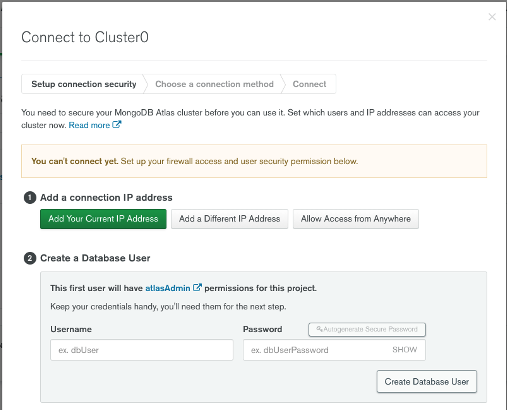
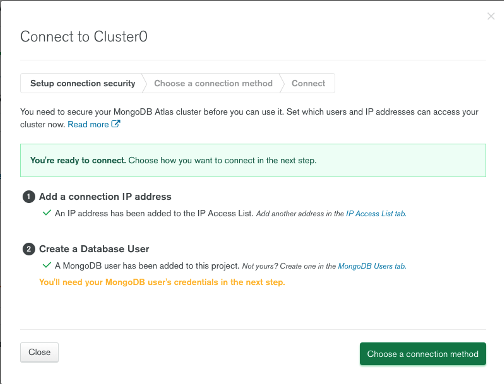
finalizing readme

diff --git a/README.md b/README.md
@@ -4,6 +4,8 @@
 
 <a href="https://choosealicense.com/licenses/mit" target="_blank"><img src="https://img.shields.io/badge/License-MIT-yellow.svg" /></a>
 
+<hr/>
+
 ## Description
 
 Turbo Doodle is a full-stack budget tracker that was developed as a progressive web app (PWA).
@@ -18,6 +20,8 @@ Given the above definition, the main feature of this app is to provide the user 
 
 To view the final app deployed on Heroku, please click on the following [link](https://secret-sierra-86296.herokuapp.com/).
 
+<hr/>
+
 ## Table of Contents:
 
 1. [Description](#description)
@@ -28,6 +32,8 @@ To view the final app deployed on Heroku, please click on the following [link](h
 1. [Video](#video)
 1. [License](#license)
 1. [Questions](#questions)
+
+<hr/>
 
 ## Offline Functionality
 
@@ -53,11 +59,11 @@ The below list provided by MDN summarizes the basic pattern thats encouraged ino
 4. Wait for the operation to complete by listening to the right kind of DOM event.
 5. Do something with the results (which can be found on the request object).
 
+<hr/>
+
 ## Installation
 
 - Before cloning the repository, please ensure you have node.js installed as this app requires the installing of npm packages. You will also need to ensure you have both MongoDB installed on your computer and MongoDB Atlas as the database will the remote functionality to store the data.
-
-If you do not have node.js installed, start with steps 1 and 2. If you have node.js installed and confirmed, you can skip steps 1 and 2 and begin on step 3.
 
 ### Node.js Installation
 
@@ -65,13 +71,13 @@ If you do not have node.js installed, start with steps 1 and 2. If you have node
 
 2.  After install, check with command line to ensure setup is correct.
 
-    a. Open your terminal
+        a. Open your terminal
 
-    b. Type the below command. If you see a version it means you have installed node.js correctly.
+        b. Type the below command. If you see a version it means you have installed node.js correctly.
 
-    ```bash
-    node -v
-    ```
+        ```bash
+        node -v
+        ```
 
 ### MongoDB Installation
 
@@ -79,41 +85,111 @@ If you do not have node.js installed, start with steps 1 and 2. If you have node
 
 2.  After install, check with the command line to ensure setup is correct. If running the below commands does not output any errors, then you've correctly installed mongoDB.
 
-    ```bash
-    mongo --version
-    ```
+        ```bash
+        mongo --version
+        ```
 
-    ```bash
-    mongod --version
-    ```
+        ```bash
+        mongod --version
+        ```
 
-### MongoDB Atlas Installation
+### MongoDB Atlas Setup
 
 1.  [MongoDB Atlas Getting Started Page](https://docs.atlas.mongodb.com/getting-started/)
 
-2.  After creating an Atlas account, you will need to build a "Free Cluster"
+2.  After creating an Atlas account, you will need to build a "Project / Cluster". Come up with a name for your project and click on the next button.
 
-3.  Once you've built a cluster, you need to do the following
+    ![alt text](./public/assets/images/mongodbAtlas_createproject_1.png)
 
-    a. Click on the "Connect".
+3.  You will be redirected to the next page which will ask you to "Add Members and Set Permissions". Ensure the project owner is set to your email.
 
-    ![alt text](./public/assets/images/mongodbAtlas_cluster_1.png)
+    ![alt text](./public/assets/images/mongodbAtlas_createproject_2.png)
 
-    b. Click on the "Add Your Current IP Address" and fill in the "Username" and "Password" fields.
+4.  For the next screen, just click on "Build a Database". Once clicked, you will be asked for a "deployment option". For our case, choose "Free & Hobby" and then click on "Create".
 
-    - I typically use the "Autogenerate Secure Password"
+    ![alt text](./public/assets/images/mongodbAtlas_createproject_3.png)
+
+5.  The next screen will ask you to choose a "Cloud Provider & Region". Once you've chosen you're region, click on "Create Cluster".
+
+    - Please note, the creation of the cluster will take a few minutes. takes a little bit of time some. Wait until the process is fully done.
+
+    ![alt text](./public/assets/images/mongodbAtlas_createproject_4.png)
+
+6.  Once you've built your cluster, you need to do the following:
+
+    a. Click on the "Connect" & choose the "Allow Access from Anywhere".
+
+    - Click on the "Add IP Address".
+
+    - Click on "Create a Database User" after choosing a username and password. For security purposes, I typically use the "Autogenerate Secure Password".
 
     - Please ensure you save this password somewhere as we will need to use it later when we fill in the "config.env" file.
 
+    ![alt text](./public/assets/images/mongodbAtlas_cluster_1.png)
+
+    c. Click on the "Create Database User" and then lastly, click on the "Choose a connection method" on the bottom right corner.
+
     ![alt text](./public/assets/images/mongodbAtlas_cluster_2.png)
+
+    d. Choose the middle option "Connect your application" and copy the connection string shown.
+
+    ![alt text](./public/assets/images/mongodbAtlas_connect_1.png)
+
+    e. This step is crucial. What you want to do is copy the connection string and place it in the config.env.EXAMPLE.
+
+    - Once pasted, you want to replace the "myFirstDatabase" in the string with a name you want to use for your database and make the `<password>` to upper case `<PASSWORD>`.
+
+    - For the "DATABASE_PASSWORD" field, paste in the one you saved from earlier.
+
+    ```bash
+    DATABASE=mongodb+srv://mehdi:<PASSWORD>@cluster0.wchzp.mongodb.net/turbo-doodle-tutorial?retryWrites=true&w=majority
+    ```
+
+    ![alt text](./public/assets/images/mongodbAtlas_connect_2.png)
+
+    f. The final step is to remove the `.EXAMPLE` from the `config.env`.
+
+<hr/>
 
 ## Usage
 
+- Once you've completed the installation section guidelines, all that is left is to install the npm packages and then start the app.
+
+- To install the app dependencies and to run the app:
+
+  1.  Open Terminal in VS Code
+
+      a. Shortcut = CTRL + `
+
+  2.  Ensure you are in the main directory
+
+  3.  To install the app dependencies:
+
+      ```bash
+      npm install
+      ```
+
+  4.  To run the app:
+
+      ```bash
+      npm start
+      ```
+
+  ![alt text](./public/assets/images/readme_usage_command_1.png)
+
+<hr/>
+
 ## Video
+
+![alt text](./public/assets/gif/turbo-doodle.gif)
+
+<hr/>
 
 ## License
 
 <a href="https://choosealicense.com/licenses/mit" target="_blank">MIT License</a>
+
+<hr/>
 
 ## Questions
 
